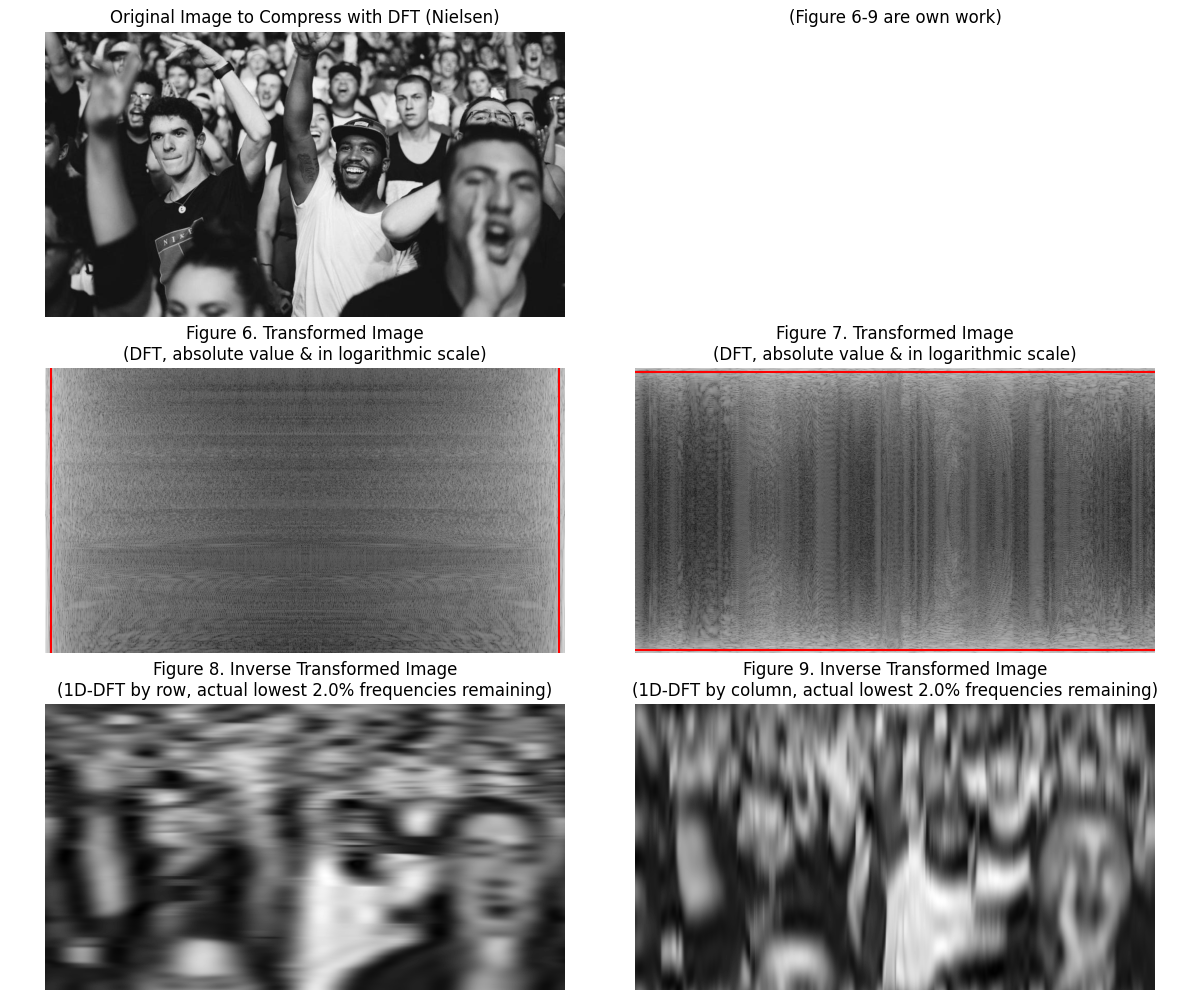
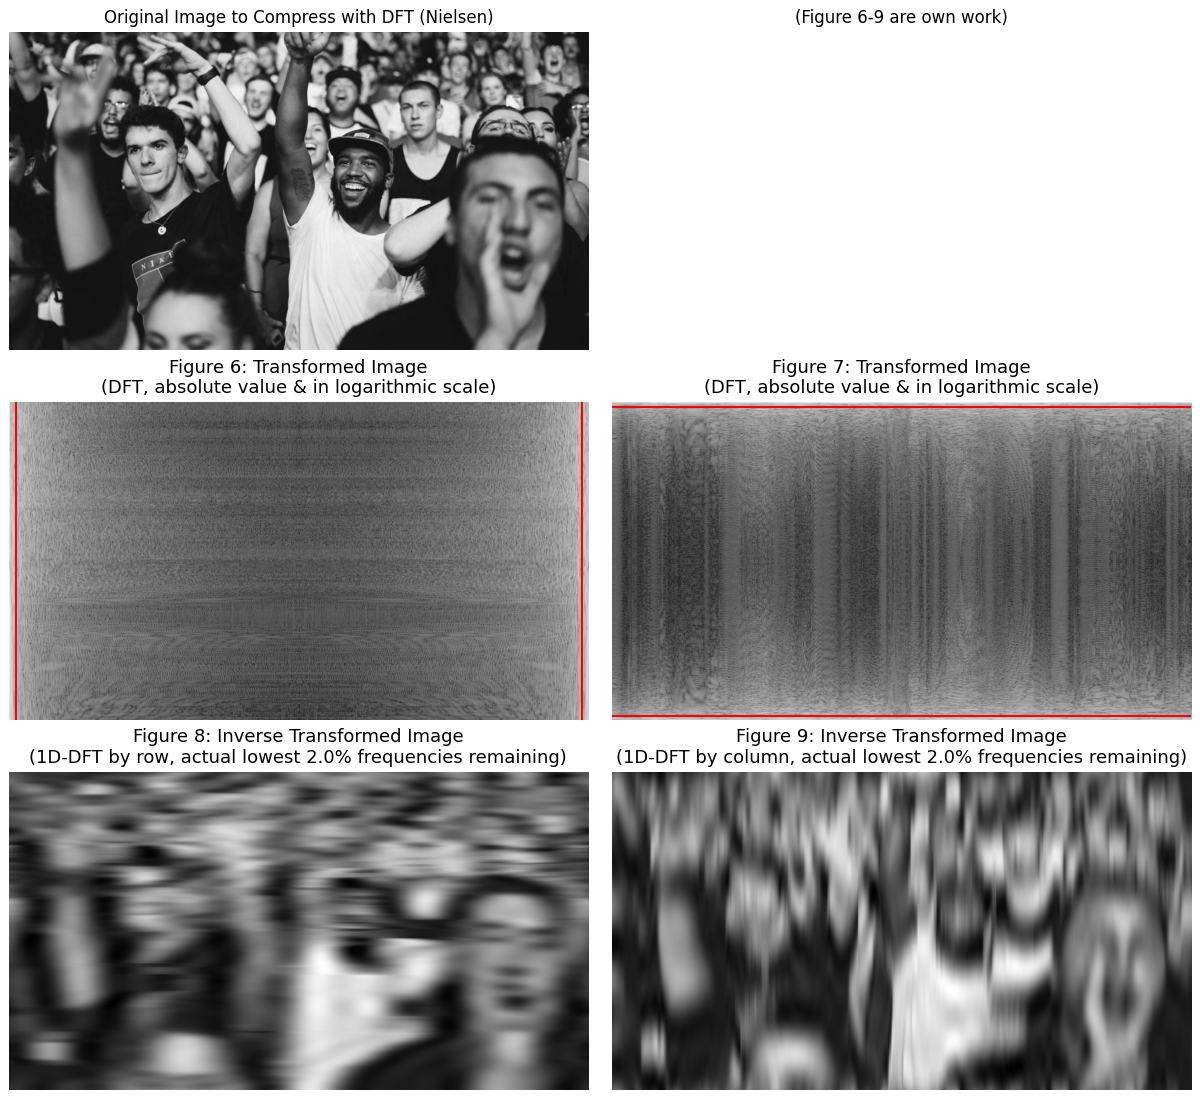
final its done

diff --git a/compressor1d.py b/compressor1d.py
@@ -23,21 +23,21 @@ plt.title('Original Image to Compress with DFT (Nielsen)'), plt.xticks([]), plt.
 plt.subplot(322),plt.title(f'(Figure 6-9 are own work)'), plt.xticks([]), plt.yticks([])
 
 plt.subplot(323),plt.imshow(np.log(1 + np.abs(dft_rows_2)), cmap = 'gray')
-plt.title('Figure 6. Transformed Image\n(DFT, absolute value & in logarithmic scale)'), plt.xticks([]), plt.yticks([])
+plt.title('Figure 6: Transformed Image\n(DFT, absolute value & in logarithmic scale)', fontsize=13), plt.xticks([]), plt.yticks([])
 plt.axvline(x=int(img.shape[1]*percentage_remaining/2)+2, color='r')
 plt.axvline(x=img.shape[1]-int(img.shape[1]*percentage_remaining/2)-1, color='r')
 
 plt.subplot(324),plt.imshow(np.log(1 + np.abs(dft_cols_2)), cmap = 'gray')
-plt.title('Figure 7. Transformed Image\n(DFT, absolute value & in logarithmic scale)'), plt.xticks([]), plt.yticks([])
+plt.title('Figure 7: Transformed Image\n(DFT, absolute value & in logarithmic scale)', fontsize=13), plt.xticks([]), plt.yticks([])
 plt.axhline(y=int(img.shape[0]*percentage_remaining/2)+3, color='r')
 plt.axhline(y=img.shape[0]-int(img.shape[0]*percentage_remaining/2)-1, color='r')
 
 plt.subplot(325),plt.imshow(np.abs(idft_rows), cmap = 'gray')
-plt.title(f'Figure 8. Inverse Transformed Image\n(1D-DFT by row, actual lowest {percentage_remaining*100}% frequencies remaining)')
+plt.title(f'Figure 8: Inverse Transformed Image\n(1D-DFT by row, actual lowest {percentage_remaining*100}% frequencies remaining)', fontsize=13)
 plt.xticks([]), plt.yticks([])
 
 plt.subplot(326),plt.imshow(np.abs(idft_cols), cmap = 'gray')
-plt.title(f'Figure 9. Inverse Transformed Image\n(1D-DFT by column, actual lowest {percentage_remaining*100}% frequencies remaining)')
+plt.title(f'Figure 9: Inverse Transformed Image\n(1D-DFT by column, actual lowest {percentage_remaining*100}% frequencies remaining)', fontsize=13)
 plt.xticks([]), plt.yticks([])
 
 fig = plt.gcf()
@@ -45,7 +45,7 @@ fig.subplots_adjust(left=0.02, top=0.96, right=0.98, bottom=0.02)
 fig.subplots_adjust(wspace=0.05)
 
 figManager = plt.get_current_fig_manager()
-figManager.resize(2400, 2000)
+figManager.resize(2400, 2200)
 for ax in fig.get_axes(): ax.set_frame_on(False)
 plt.tight_layout(pad=0.75)
 plt.subplots_adjust(left=0, right=1)

diff --git a/compressor1d_simple.py b/compressor1d_simple.py
@@ -1,0 +1,39 @@
+import numpy as np
+import cv2
+from matplotlib import pyplot as plt
+
+name = 'crowd'
+img = cv2.imread(f'figures/{name}/{name}_1000.jpeg', cv2.IMREAD_GRAYSCALE)
+
+percentage_remaining = 0.05
+
+dft_cols = np.apply_along_axis(np.fft.fft, 0, img)
+dft_cols_2 = dft_cols.copy()
+dft_cols[int(img.shape[0]*percentage_remaining/2)+2:-int(img.shape[0]*percentage_remaining/2), :] = 0
+idft_cols = np.apply_along_axis(np.fft.ifft, 0, dft_cols)
+
+dft_rows = np.apply_along_axis(np.fft.fft, 1, img)
+dft_rows_2 = dft_rows.copy()
+dft_rows[:, int(img.shape[1]*percentage_remaining/2)+2:-int(img.shape[1]*percentage_remaining/2)] = 0
+idft_rows = np.apply_along_axis(np.fft.ifft, 1, dft_rows)
+
+plt.subplot(121),plt.imshow(np.abs(idft_rows), cmap = 'gray')
+plt.title(f'Inverse Transformed Image\n(1D-DFT by row, actual lowest {percentage_remaining*100}% frequencies remaining)')
+plt.xticks([]), plt.yticks([])
+
+plt.subplot(122),plt.imshow(np.abs(idft_cols), cmap = 'gray')
+plt.title(f'Inverse Transformed Image\n(1D-DFT by column, actual lowest {percentage_remaining*100}% frequencies remaining)')
+plt.xticks([]), plt.yticks([])
+
+fig = plt.gcf()
+fig.subplots_adjust(left=0.02, top=0.96, right=0.98, bottom=0.02)
+fig.subplots_adjust(wspace=0.05)
+
+figManager = plt.get_current_fig_manager()
+# figManager.resize(2400, 2000)
+for ax in fig.get_axes(): ax.set_frame_on(False)
+plt.tight_layout(pad=0.75)
+plt.subplots_adjust(left=0, right=1)
+# plt.savefig(f'compressor1d.png')
+
+plt.show()

diff --git a/bulk_compress.py b/bulk_compress.py
@@ -4,7 +4,7 @@ from scipy import fftpack
 import matplotlib.pyplot as plt
 from math import pi, sqrt
 
-for name in ['trees']:
+for name in ['crowd']:
     for res in [1000, 500, 100]:
         img = cv2.imread(f'figures/{name}/{name}_{res}.jpeg', cv2.IMREAD_GRAYSCALE)
 
@@ -14,8 +14,8 @@ for name in ['trees']:
         fig, axs = plt.subplots(ny,nx)
 
         for I, new_size in enumerate([
-            0.75,0.50,0.40,0.30,
-            0.20,0.15,0.10,0.05,
+            1.00,0.75,0.50,0.40,
+            0.30,0.20,0.10,0.05,
             0.04,0.03,0.02,0.01
         ]):
             DFT_matrix = fftpack.fft2(img)
@@ -40,10 +40,12 @@ for name in ['trees']:
             axs[axscoord].axis('off')
 
         plt.tight_layout()
-        plt.subplots_adjust(left=0, right=1, top=0.95, bottom=0)
-        plt.get_current_fig_manager().full_screen_toggle()
-        plt.suptitle(f'{name}.jpeg at {img.shape[1]}x{img.shape[0]}pixels')
-        plt.savefig(f'out/{name}_{res}.png')
+        plt.subplots_adjust(left=0, right=1, top=0.95, bottom=0, wspace=0.01)
+        # plt.get_current_fig_manager().full_screen_toggle()
+        plt.suptitle(f'image of {name}, sized at {img.shape[1]}px x {img.shape[0]}px')
+        # plt.savefig(f'out/{name}_{res}.png'
+
+        plt.show()
 
 # import subprocess
 # import os

diff --git a/compressor2d.py b/compressor2d.py
@@ -7,7 +7,7 @@ from math import pi, sqrt
 name = "crowd"
 res = 1000
 img = cv2.imread(f'figures/{name}/{name}_{res}.jpeg', cv2.IMREAD_GRAYSCALE)
-new_size = 0.1
+new_size = 0.05
 
 M, N = img.shape
 
@@ -37,20 +37,20 @@ F_compressed = F_shifted * mask
 axs[1, 1].imshow(np.log(np.abs(F_compressed)), cmap='gray')
 axs[1, 1].set_title('Compressed 2D DFT')
 
-# fig2 = plt.figure()
-# a2 = fig2.add_subplot(111)
-# a2.imshow(img, cmap='gray')
-# a2.set_title('Input image')
-# a2.axis('off')
+fig2 = plt.figure()
+a2 = fig2.add_subplot(111)
+a2.imshow(img, cmap='gray')
+a2.set_title('Input image')
+a2.axis('off')
 # fig2.savefig('input.png')
 
-# fig3 = plt.figure()
-# F_restored = fftpack.ifftshift(F_compressed)
-# img_restored = fftpack.ifft2(F_restored).real
-# a3 = fig3.add_subplot(111)
-# a3.imshow(img_restored, cmap='gray')
-# a3.set_title('Output')
-# a3.axis('off')
+fig3 = plt.figure()
+F_restored = fftpack.ifftshift(F_compressed)
+img_restored = fftpack.ifft2(F_restored).real
+a3 = fig3.add_subplot(111)
+a3.imshow(img_restored, cmap='gray')
+a3.set_title('Output')
+a3.axis('off')
 # fig3.savefig('output.png')
 
 plt.subplots_adjust(left=0.05, right=0.99, top=1, bottom=0.05, wspace=0.1, hspace=0)

diff --git a/compressor2d_simple.py b/compressor2d_simple.py
@@ -1,0 +1,37 @@
+import cv2
+import numpy as np
+from scipy import fftpack
+import matplotlib.pyplot as plt
+from math import pi, sqrt
+
+for name in ['crowd']:
+    for res in [1000, 500, 100]:
+        img = cv2.imread(f'figures/{name}/{name}_{res}.jpeg', cv2.IMREAD_GRAYSCALE)
+
+        M, N = img.shape
+
+        DFT_matrix = fftpack.fft2(img)
+        F_shifted = fftpack.fftshift(DFT_matrix)
+
+        new_size = 0.05
+        r = sqrt(M*N*new_size/pi)
+        c = 0
+        mask = np.zeros((M, N))
+        for i in range(M):
+            for j in range(N):
+                if (i-M/2)**2 + (j-N/2)**2 < r**2:
+                    mask[i, j] = 1
+                    c += 1
+
+        F_restored = fftpack.ifftshift(F_shifted*mask)
+        img_restored = fftpack.ifft2(F_restored).real
+
+        plt.imshow(img_restored, cmap='gray')
+        plt.title(f'{c/(M*N)*100:.2f}%')
+        plt.axis('off')
+
+        plt.tight_layout()
+        plt.subplots_adjust(left=0, right=1, top=0.95, bottom=0, wspace=0.01)
+        plt.suptitle(f'image of {name}, sized at {img.shape[1]}px x {img.shape[0]}px')
+
+        plt.show()

diff --git a/waves_list_3d.py b/waves_list_3d.py
@@ -3,7 +3,7 @@ import matplotlib.pyplot as plt
 from mpl_toolkits.mplot3d import Axes3D
 
 fig = plt.figure(figsize=(12, 12))
-fig.suptitle('Figure 9: 2D-DFT Multiplier Matrix Visualized (own work)', fontsize=16)
+fig.suptitle('Figure 10: 2D-DFT Multiplier Matrix Visualized (own work)', fontsize=16)
 
 x = np.linspace(0, 10, 100)
 y = np.linspace(0, 10, 100)
@@ -14,8 +14,13 @@ for i in range(4):
         ax = fig.add_subplot(4, 4, i * 4 + j + 1, projection='3d')
         z = np.cos(2 * np.pi * i * x / (x.max() - x.min()) + 2 * np.pi * j * y / (y.max() - y.min()))
         ax.plot_surface(x, y, z, cmap='gray')
-        ax.set_title(f'u={i}, v={j}', fontsize=10)
+        ax.set_title(f'u={i}, v={j}', fontsize=15)
+        ax.set_xticklabels([])
+        ax.set_yticklabels([])
+        ax.set_zticklabels([])
 
-plt.subplots_adjust(hspace=0.4, wspace=0)
+plt.subplots_adjust(hspace=0.2, wspace=0, left=0.02, right=0.98, top=0.9, bottom=0.02)
+figManager = plt.get_current_fig_manager()
+figManager.resize(1600, 1800)
 plt.savefig('figure_9.png')
 plt.show()

diff --git a/waves_list_3d_flatterned.py b/waves_list_3d_flatterned.py
@@ -2,7 +2,7 @@ import numpy as np
 import matplotlib.pyplot as plt
 
 fig, axs = plt.subplots(nrows=4, ncols=4, figsize=(12, 12))
-fig.suptitle('Figure 10: 2D-DFT Multiplier Matrix Visualized\nTop-Down Flattened View (own work)', fontsize=16)
+fig.suptitle('Figure 11: 2D-DFT Multiplier Matrix Visualized\nTop-Down Flattened View (own work)', fontsize=16)
 
 x = np.linspace(0, 10, 100)
 y = np.linspace(0, 10, 100)
@@ -14,6 +14,6 @@ for i in range(4):
         axs[i, j].imshow(z, cmap='gray')
         axs[i, j].set_title(f'u={i}, v={j}', fontsize=10)
 
-plt.subplots_adjust(hspace=0.3, wspace=0)
+plt.subplots_adjust(hspace=0.3, wspace=0, left=0.02, right=0.98, top=0.9, bottom=0.02)
 plt.savefig('figure_10.png')
 plt.show()

diff --git a/subtitler_x1.py b/subtitler_x1.py
@@ -2,11 +2,11 @@ import matplotlib.pyplot as plt
 import matplotlib.image as mpimg
 
 # Load the image
-img = mpimg.imread('asdf-1.png')
+img = mpimg.imread('/Users/h.zhong@aics.espritscholen.nl/Downloads/aaa.png')
 
 plt.imshow(img)
 plt.axis('off')
-plt.suptitle('Figure 11 - Compression Pipeline')
+plt.suptitle('(Figure 14-15 are own work)')
 
 plt.subplots_adjust(wspace=0.1, hspace=0.1, top=0.9, bottom=0.1, left=0.1, right=0.9)
 

diff --git a/algorithms/2d_dft.py b/algorithms/2d_dft.py
@@ -23,4 +23,3 @@ def idft_2d(dft_image: list[list[int]], n:int, m:int):  # (n,m) = position of pi
             for v in range(H)                           # ) for all v part of the array of frequencies along the height
         ]) for u in range(W)                            # ) for all u part of the array of frequencies along the width
     ])
-
